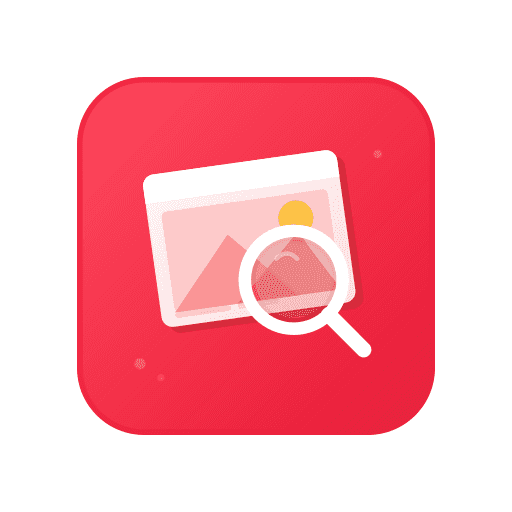
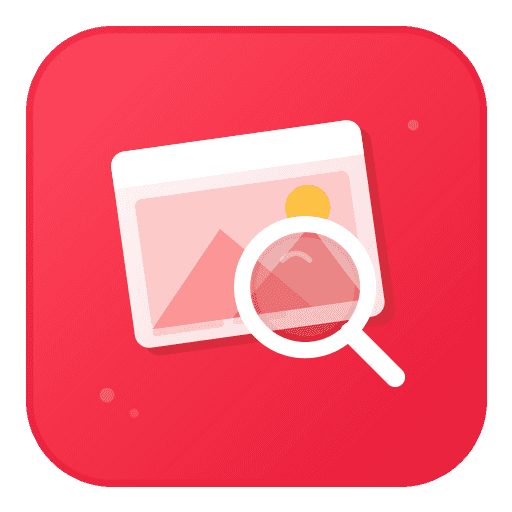
fix(pwa): maskable 和 apple 图标改用透明背景

diff --git a/web/pwa-assets.config.ts b/web/pwa-assets.config.ts
@@ -1,7 +1,27 @@
 import {
   defineConfig,
-  minimal2023Preset as preset,
+  minimal2023Preset,
 } from '@vite-pwa/assets-generator/config';
+
+const preset = {
+  ...minimal2023Preset,
+  maskable: {
+    sizes: [512],
+    padding: 0.1,
+    resizeOptions: {
+      fit: 'contain',
+      background: 'transparent',
+    },
+  },
+  apple: {
+    sizes: [180],
+    padding: 0.1,
+    resizeOptions: {
+      fit: 'contain',
+      background: 'transparent',
+    },
+  },
+};
 
 export default defineConfig({
   preset,
@@ -10,8 +30,4 @@ export default defineConfig({
     preset: '2023',
   },
   overrideAssets: true,
-  assetOptions: {
-    padding: 0.1,
-    background: '#ff2442',
-  },
 });